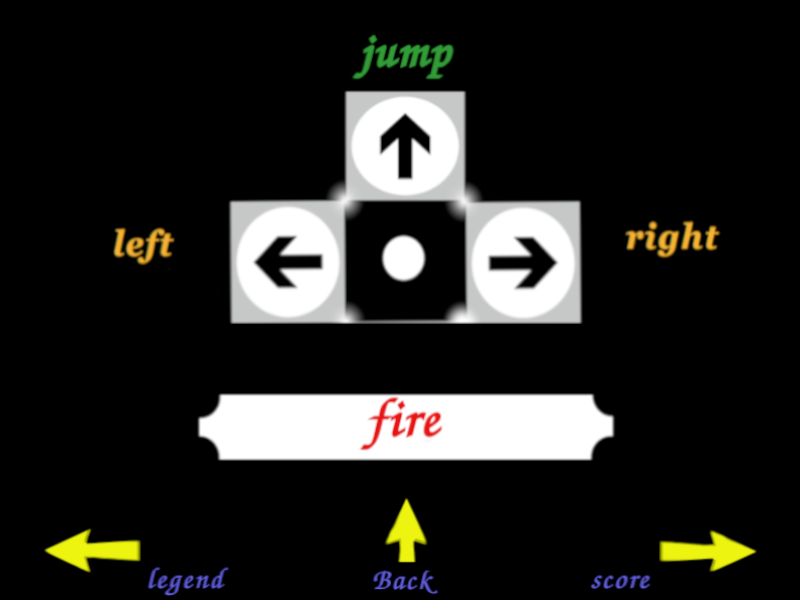
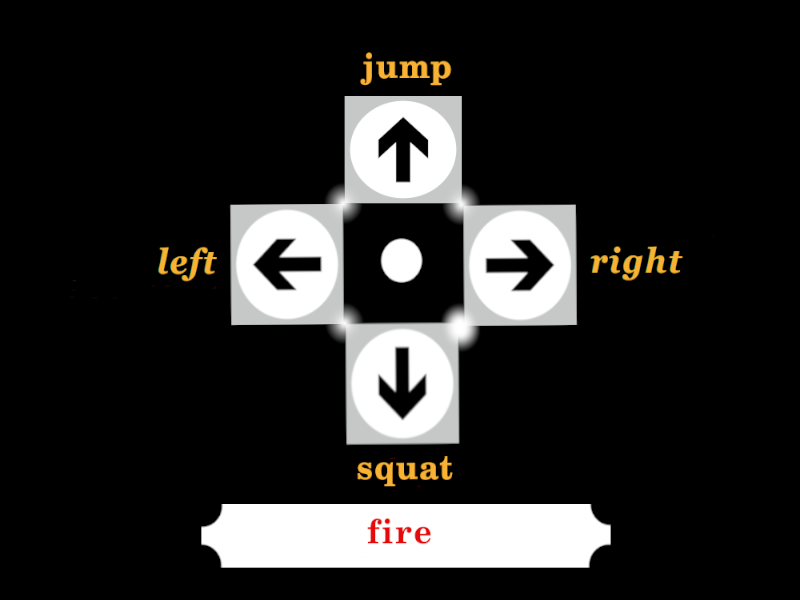
аdding option PAUSE game

diff --git a/src/game.py b/src/game.py
@@ -1,8 +1,10 @@
+import pygame.time
+
 from settings import *
 from classes.class_background import Background
 from classes.class_table import Table
 from src.classes.class_sound import Sound
-from state_classes import Intro, Menu, Legend, Score, LevelStatistic, PlayerDead, Epilogue
+from state_classes import Intro, Menu, Story, Score, LevelStatistic, PlayerDead, Epilogue
 from classes.class_player import Player
 from classes.class_knight import Knight
 from classes.class_ground import Ground
@@ -77,6 +79,11 @@ class GameState(Sound):
         self.count = 0
 
     def start_game(self):
+        # ------------------------- MAKE PAUSE GAME
+        if key_pressed(pygame.K_p):
+            Sound.btn_click(self)
+            self.state = 'pause'
+
         # ------------------top display frame
         table.update()
 
@@ -726,13 +733,17 @@ class GameState(Sound):
         Menu()
         Menu.event(self)
 
-    def legend(self):
-        Legend()
-        Legend.event(self)
+    def story(self):
+        Story()
+        Story.event(self)
 
     def score(self):
         Score()
         Score.event(self)
+
+    def epilogue(self):
+        Epilogue()
+        Epilogue.event(self)
 
     def player_dead(self):
         if self.player_data.life <= 0:
@@ -814,19 +825,36 @@ class GameState(Sound):
                     player.points += 5000
                 self.is_add_bonus = True
 
-    def epilogue(self):
-        Epilogue()
-        Epilogue.event(self)
+    def start_pause(self):
+        table.update()
+        background_image('../src/assets/images/pause/bg_toilet.png', 50, 100)
+        text_creator('PAUSED', 'chocolate1', S_W // 2 - 50, S_H // 2, 40, None, None, True)
+        text_creator('Press RETURN to continue...', 'cornsilk', S_W - 250, S_H - 30)
+
+        time_now = pygame.time.get_ticks()
+        if time_now - self.start_timer > self.COOLDOWN:
+            self.start_timer = time_now
+            bonus_group.add(Bonus('../src/assets/images/pause/toilet_roll/roll.png'))
+        bonus_group.draw(SCREEN)
+        bonus_group.update()
+
+        if key_pressed(pygame.K_RETURN):
+            Sound.btn_click(self)
+            self.state = 'start_game'
 
     # ========================================= state manager
     def state_manager(self):
         # print(self.state)
+        if self.state == 'pause':
+            self.start_pause()
         if self.state == 'intro':
             self.intro()
         if self.state == 'menu':
             self.menu()
-        if self.state == 'legend':
-            self.legend()
+        if self.state == 'story':
+            self.story()
+        if self.state == 'score':
+            self.score()
         if self.state == 'start_game':
             self.start_game()
         if self.state == 'level_statistic':
@@ -847,10 +875,12 @@ game_state = GameState(player, knight, background)
 # ================================================================ create top Table for: score , energy and more
 table = Table(game_state, player, knight)
 
-# ============= Starting Game loo
+
+# ============= Starting Game loop
 while True:
     SCREEN.fill(pygame.Color('black'))
     game_state.state_manager()
     pygame.display.update()
     CLOCK.tick(FPS)
     exit_game()
+

diff --git a/src/state_classes.py b/src/state_classes.py
@@ -23,7 +23,6 @@ class Intro(Sound):
         if keys[pygame.K_SPACE]:
             Sound.stop_all_sounds()  # if eny music play stop it
             self.state = 'start_game'
-            # self.state = 'boss'
 
 
 # =========================================== Menu state class ============================================
@@ -40,38 +39,41 @@ class Menu(Sound):
             self.state = 'intro'
         if key_pressed(pygame.K_LEFT):
             Sound.btn_click(self)
-            self.state = 'legend'
+            self.state = 'story'
         if key_pressed(pygame.K_RIGHT):
             Sound.btn_click(self)
             self.state = 'score'
 
 
-# =========================================== Legend state class =============================================
-class Legend(Sound):
+# =========================================== Story class
+class Story(Sound):
     def __init__(self):
-        super().__init__()
-        background_image('../src/assets/images/backgrounds/bg_legend.png')
+        background_image('../src/assets/images/backgrounds/bg_story.png')
         self.state = ''
 
     @staticmethod
     def event(self):
-        if key_pressed(pygame.K_RIGHT):
-            Sound.btn_click(self)
-            self.state = 'intro'
+        for event in pygame.event.get():
+            if event.type == pygame.KEYUP:
+                if event.key == pygame.K_RIGHT:
+                    Sound.btn_click(self)
+                    self.state = 'menu'
 
 
 # =========================================== Score state class ============================================
 class Score(Sound):
     def __init__(self):
         super().__init__()
-        background_image('../src/assets/images/backgrounds/bg_legend.png')
+        background_image('../src/assets/images/backgrounds/bg_controls_old.png')
         self.state = ''
 
     @staticmethod
     def event(self):
-        if key_pressed(pygame.K_LEFT):
-            Sound.btn_click(self)
-            self.state = 'intro'
+        for event in pygame.event.get():
+            if event.type == pygame.KEYUP:
+                if event.key == pygame.K_LEFT:
+                    Sound.btn_click(self)
+                    self.state = 'menu'
 
 
 # =========================================== LevelStatistic class
@@ -200,6 +202,8 @@ class Epilogue(Sound):
         if key_pressed(pygame.K_LEFT):
             Sound.btn_click(self)
             self.state = 'score'
+
+
 
 
 

diff --git a/src/settings.py b/src/settings.py
@@ -3,6 +3,7 @@ from random import randrange
 from sys import exit
 from pygame.math import Vector2
 
+
 vec = Vector2
 # ========================================================================== initialize
 pygame.init()
@@ -106,3 +107,4 @@ def exit_game():
         if event.type == pygame.QUIT:
             pygame.quit()
             exit()
+
